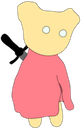
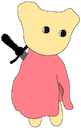
Character walk animation added

diff --git a/src/js/sprite/KnightSprite.js b/src/js/sprite/KnightSprite.js
@@ -20,13 +20,15 @@ class KnightSprite {
       idle0: 'assets/character/idle/1.png',
       idle1: 'assets/character/idle/2.png',
       idle2: 'assets/character/idle/3.png',
-      idle3: 'assets/character/idle/2.png',
-      idle4: 'assets/character/idle/3.png',
-      walk0: 'assets/model/ork/WALK_000.png',
-      walk1: 'assets/model/ork/WALK_001.png',
-      walk2: 'assets/model/ork/WALK_002.png',
-      walk3: 'assets/model/ork/WALK_003.png',
-      walk4: 'assets/model/ork/WALK_004.png',
+      idle3: 'assets/character/idle/4.png',
+      idle4: 'assets/character/idle/5.png',
+      idle5: 'assets/character/idle/6.png',
+      walk0: 'assets/character/walk/1.png',
+      walk1: 'assets/character/walk/2.png',
+      walk2: 'assets/character/walk/3.png',
+      walk3: 'assets/character/walk/4.png',
+      walk4: 'assets/character/walk/5.png',
+      walk5: 'assets/character/walk/6.png',
       jump0: 'assets/model/ork/JUMP_000.png',
       jump1: 'assets/model/ork/JUMP_001.png',
       jump2: 'assets/model/ork/JUMP_002.png',
